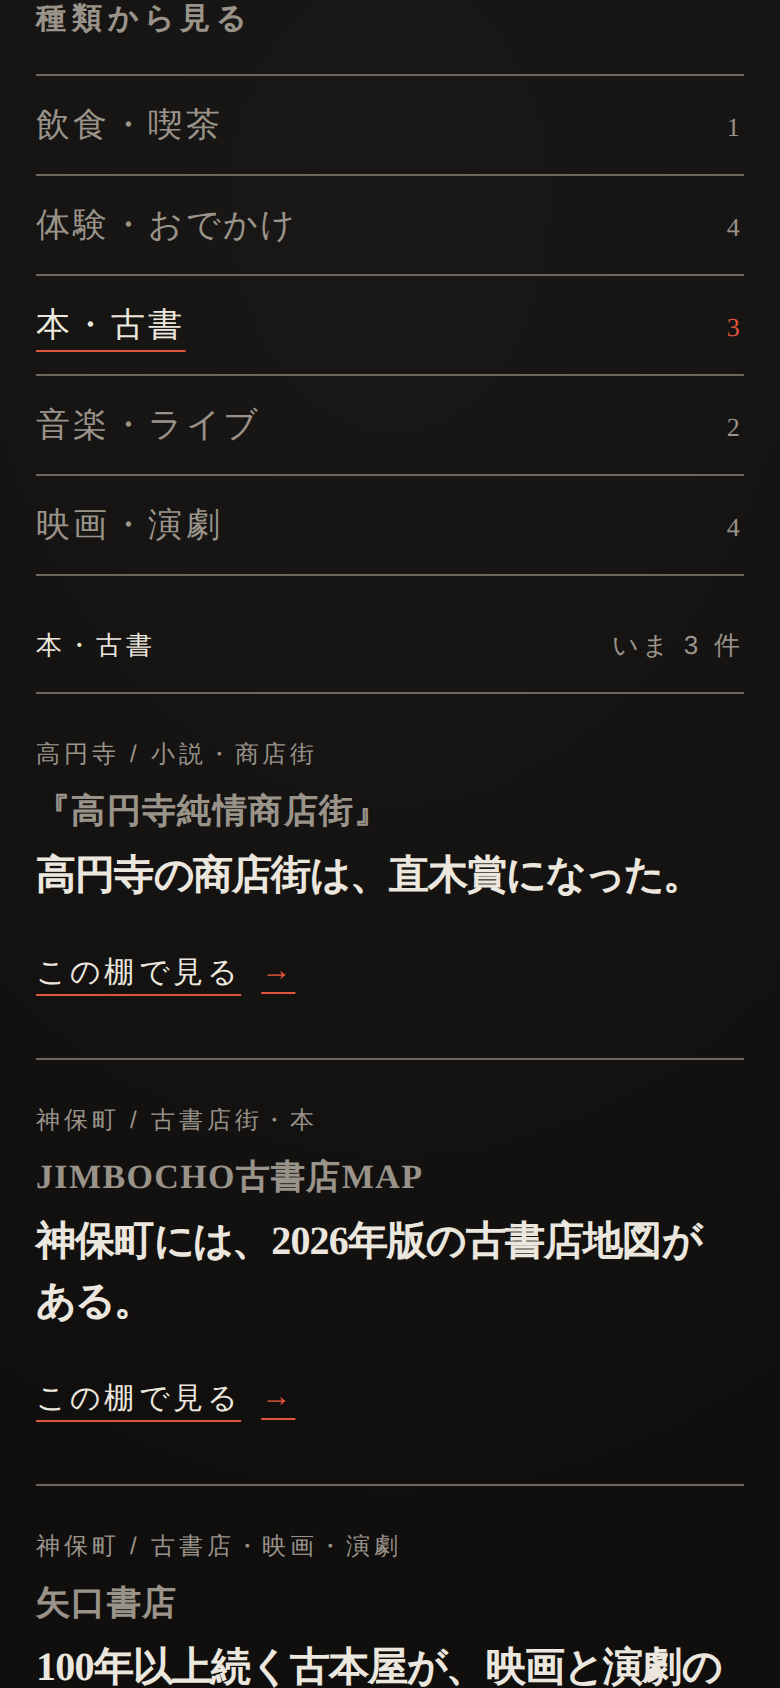
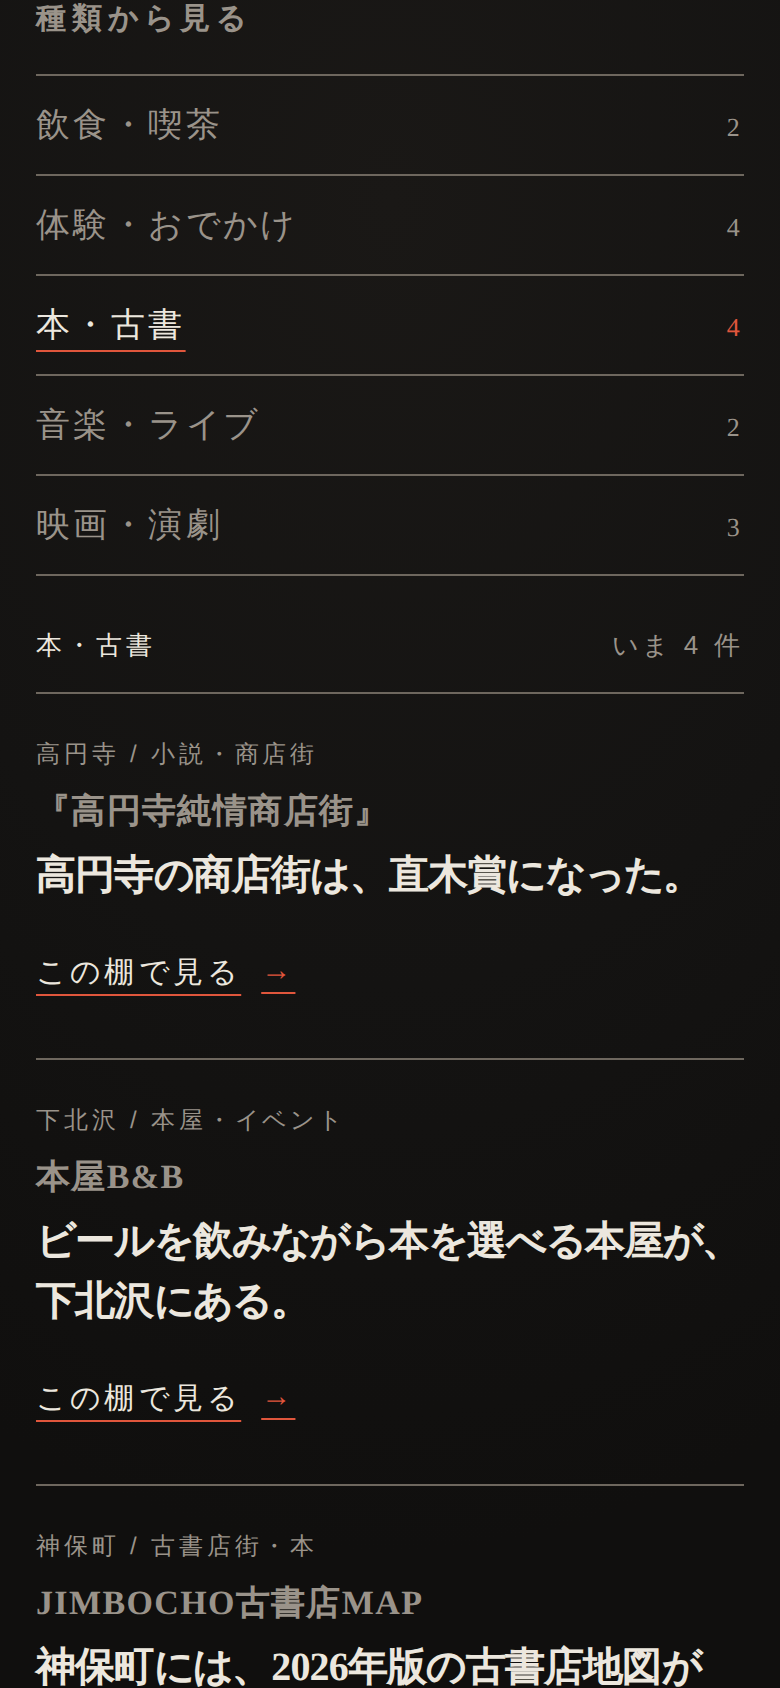
feat(release-01): 『街の上で』を本屋B&Bに入れ替える
Founder の実機確認で ttcg.jp/movie/0650200.html が 404 だった。差し替え先
として私が選んだ URL で、選定を誤っていた。

代替を3件調べたところ、「消えない」と「作品が載っている」が両立する公式
ページがこの作品には無かった:

- ttcg.jp/distribution/2021/  200 だが作品名なし
- ttcg.jp/movie/1306900.html  200・作品名ありだが5周年アンコール上映の
  ページで、上映は2026年4月10日開始、各劇場5〜7月に終了済み
- ttcg.jp/movie/1125700.html  同じく期間限定の再上映ページ

公開当時の公式ドメインが失効し、配給元の作品ページも公開終了とともに消える
ため、「公式へ行ける」を満たし続けられる行き先が無い。リンクの延命を続ける
より対象を替える方が棚の約束を守れると判断し、Founder が差し替えを選んだ。

下北沢 3件目を本屋B&B（BONUS TRACK / 本屋・イベント）に置き換えた。
evergreen、活字図版、公式ページは独立ドメイン。
category は books:3->4 food:1->2 film-stage:4->3 になった。

あわせて、内容に張り付いていた browser QA の3件を content から導くよう
書き直した。この file 自身が冒頭で「特定の id / 日付 / 棚へ張り付けない」と
書いているのに、category の所属と件数を書き写していた:

- deep_link_results_are_the_mapped_objects は books の期待値を content から作る
- result_count_is_honest は件数を数えて作る
- single_item_category_is_not_padded は「1件だけの category」を実行時に探し、
  無ければ NOT OBSERVABLE と言う（food 固定だと food が2件になった瞬間に
  product の欠陥のように見えてしまう）

負のテスト: release.js の結果を1件落とすと deep_link と result_count が
どちらも FAIL し、復元すると緑に戻ることを確認した。判定者として機能している。

release_check GO / browser_qa 559/559 + 1 NOT OBSERVABLE /
expiry_boundaries GO / preflight GO。

本屋B&B の事実は二次情報から起こしたもので、公式ページでの確認が未了。
この開発環境からは bookandbeer.com へ到達できない。Production GO の前に
Founder の確認が要る。

保存・製本・本棚・GA4・外部通信への影響なし。

Claude-Session: https://claude.ai/code/session_018poV34fXL7Au8c8NUFyCym

diff --git a/v3-prototype/release-01/release_content.js b/v3-prototype/release-01/release_content.js
@@ -342,41 +342,38 @@ window.V3_RELEASE_CONTENT = {
           expiresAt: null
         },
         {
-          id: 'machinouede-film',
-          categoryIds: ['film-stage'],
-          objectName: '映画『街の上で』',
-          placeName: '下北沢一帯 / 下北沢',
-          typeLabel: '映画・街',
+          /* 映画『街の上で』を外してここに入れ替えた。公開当時の公式ドメインが
+             失効し、配給元の作品ページも公開終了とともに 404 になるため、
+             「公式へ行ける」を満たし続けられる行き先が無かった。
+             リンクの延命を続けるより、公式ページが独立して立っている対象に
+             替える方が、棚の約束を守れる。 */
+          id: 'book-and-beer',
+          categoryIds: ['books', 'food'],
+          objectName: '本屋B&B',
+          placeName: 'BONUS TRACK / 下北沢',
+          typeLabel: '本屋・イベント',
           mode: 'evergreen',
-          hook: 'この映画、オール下北沢ロケ。',
-          hookPhrases: ['この映画、', 'オール下北沢', 'ロケ。'],
-          reveal: '今泉力哉監督『街の上で』は、古着屋・古本屋・自主映画・飲み屋まで、下北沢の日常そのものを舞台にした。',
-          revealPhrases: ['今泉力哉監督', '『街の上で』は、', '古着屋・古本屋・', '自主映画・飲み屋まで、', '下北沢の', '日常そのものを', '舞台にした。'],
+          hook: 'ビールを飲みながら本を選べる本屋が、下北沢にある。',
+          hookPhrases: ['ビールを飲みながら', '本を選べる本屋が、', '下北沢にある。'],
+          reveal: '本屋B&Bは2012年の開店。クラフトビールを常時7〜8種類置き、本にまつわるトークイベントをほぼ毎日開いている。',
+          revealPhrases: ['本屋B&Bは', '2012年の開店。', 'クラフトビールを', '常時7〜8種類置き、', '本にまつわる', 'トークイベントを', 'ほぼ毎日', '開いている。'],
           facts: [
-            ['監督', '今泉力哉'],
-            ['舞台', '古着屋・古本屋・自主映画・飲み屋など下北沢の日常'],
-            ['確認', '上映情報は配給元・劇場の公式ページで確認']
+            ['開店', '2012年'],
+            ['場所', '下北線路街「BONUS TRACK」内'],
+            ['催し', 'トークイベントの予定は公式ページで確認']
           ],
-          /* 公開当時の公式ドメイン machinouede.com は、2026-08-29 時点で
-             ERR_SSL_PROTOCOL_ERROR を返す（Founder 実機確認）。2021年公開作の
-             プロモーション用ドメインが失効した形で、利用者から見れば
-             「公式サイトを見る」を押すと壊れたページに着く状態だった。
-             この対象は evergreen なので、期限で消える上映ページではなく、
-             配給元（東京テアトル）の作品ページへ向ける。
-             万一この URL が 404 になった場合の代替は、年別アーカイブの
-             https://ttcg.jp/distribution/2021/ 。 */
-          actionLabel: '配給元の作品ページを見る',
-          actionUrl: 'https://ttcg.jp/movie/0650200.html',
+          actionLabel: '本屋B&Bの公式ページを見る',
+          actionUrl: 'https://bookandbeer.com/',
           media: {
             kind: 'plate',
-            plateWord: '街の上で',
-            plateSub: '下北沢 / 映画・街',
+            plateWord: '本屋B&B',
+            plateSub: '下北沢 / 本屋・イベント',
             ratio: '4 / 5',
-            listAlt: '「街の上で」と大きく組んだ、この棚のための活字図版',
-            detailAlt: '「街の上で」と大きく組んだ、この棚のための活字図版'
+            listAlt: '「本屋B&B」と大きく組んだ、この棚のための活字図版',
+            detailAlt: '「本屋B&B」と大きく組んだ、この棚のための活字図版'
           },
-          factsSourceUrl: 'https://ttcg.jp/movie/0650200.html',
-          verifiedAt: '2026-08-29T15:40:00+09:00',
+          factsSourceUrl: 'https://bookandbeer.com/about/',
+          verifiedAt: '2026-08-29T17:10:00+09:00',
           expiresAt: null
         }
       ]

diff --git a/v3-prototype/release-01/qa/browser_qa.js b/v3-prototype/release-01/qa/browser_qa.js
@@ -65,6 +65,19 @@ function serve() {
   dated.sort((a, b) => a.at - b.at);
   const soonest = dated[0] || null;
 
+  /* category 索引の期待値を content から作る。件数や所属を書き写すと、
+     棚の入れ替えのたびに product の欠陥と fixture の賞味期限切れが
+     見分けられなくなる。 */
+  const stillLive = (o) => !o.expiresAt || Date.parse(o.expiresAt) > Date.now();
+  const allObjects = CONTENT.shelves.reduce((acc, sh) => acc.concat(sh.objects), []);
+  const objectIdsIn = (catId) => allObjects
+    .filter((o) => (o.categoryIds || []).includes(catId) && stillLive(o))
+    .map((o) => o.id).sort();
+  /* 「1件だけの category を水増ししない」を試すには、実際に1件の category が
+     要る。無ければ観測できないと言う。food に固定すると、food が2件になった
+     瞬間に product の欠陥のように見える。 */
+  const singleCat = (CONTENT.categories || []).find((c) => objectIdsIn(c.id).length === 1) || null;
+
   const VIEWPORTS = [
     { name: 'm320', width: 320, height: 800, mobile: true },
     { name: 'm390', width: 390, height: 844, mobile: true },
@@ -438,24 +451,32 @@ function serve() {
       count: document.querySelector('.result-count-n').textContent
     }));
     check(S, 'category_deep_link_selects_it', deep.selected.join(',') === 'books', deep.selected);
+    const expectedBooks = objectIdsIn('books');
     check(S, 'deep_link_results_are_the_mapped_objects',
-      deep.rows.map((r) => r.id).sort().join(',') ===
-      'jinbocho-book-town,koenji-junjo-shotengai-book,yaguchi-shoten', deep.rows.map((r) => r.id));
+      deep.rows.map((r) => r.id).sort().join(',') === expectedBooks.join(','),
+      { got: deep.rows.map((r) => r.id).sort(), want: expectedBooks });
     check(S, 'results_are_text_first', deep.images === 0, deep.images);
     check(S, 'result_row_carries_the_required_fields',
       deep.rows.every((r) => r.name && r.town && r.type && r.hook &&
         /^\.\/shelf\.html\?shelf=/.test(r.go)), deep.rows[0]);
-    check(S, 'result_count_is_honest', deep.count === 'いま 3 件', deep.count);
+    check(S, 'result_count_is_honest',
+      deep.count === `いま ${expectedBooks.length} 件`, deep.count);
 
     // 1件だけのカテゴリを水増ししない
-    await page.goto(base + 'index.html?category=food', { waitUntil: 'load' });
-    await page.waitForFunction(() => document.querySelectorAll('.result-row').length > 0);
-    const food = await page.evaluate(() => ({
-      rows: [...document.querySelectorAll('.result-row')].map((r) => r.dataset.objectId),
-      count: document.querySelector('.result-count-n').textContent
-    }));
-    check(S, 'single_item_category_is_not_padded',
-      food.rows.join(',') === 'manuscript-cafe' && food.count === 'いま 1 件', food);
+    if (!singleCat) {
+      notObservable(S, 'single_item_category_is_not_padded',
+        'いま1件だけの category が無い。水増しの有無をこの content では観測できない');
+    } else {
+      await page.goto(base + `index.html?category=${singleCat.id}`, { waitUntil: 'load' });
+      await page.waitForFunction(() => document.querySelectorAll('.result-row').length > 0);
+      const only = await page.evaluate(() => ({
+        rows: [...document.querySelectorAll('.result-row')].map((r) => r.dataset.objectId),
+        count: document.querySelector('.result-count-n').textContent
+      }));
+      check(S, 'single_item_category_is_not_padded',
+        only.rows.join(',') === objectIdsIn(singleCat.id).join(',') && only.count === 'いま 1 件',
+        { category: singleCat.id, ...only });
+    }
 
     // 知らない category は静かに無選択へ倒す
     await page.goto(base + 'index.html?category=nowhere', { waitUntil: 'load' });
